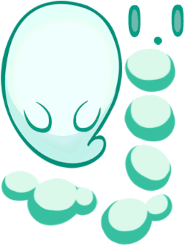
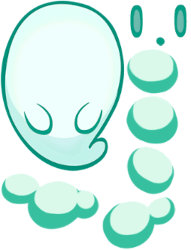
fix ghost sprite

diff --git a/src/ResInfo.js b/src/ResInfo.js
@@ -694,10 +694,10 @@ const RES_INFO_2560 = [
     // ghost
     {
         id: ResourceId.IMG_OBJ_GHOST,
-        preCutWidth: 188,
-        preCutHeight: 246,
+        preCutWidth: 191,
+        preCutHeight: 250,
         rects: [
-            0, 0, 163, 225, 167, 63, 72, 63, 167, 127, 71, 66, 167, 194, 67, 66, 134, 261, 101, 72,
+            0, 0, 166, 229, 167, 63, 72, 63, 167, 127, 71, 66, 167, 194, 67, 66, 134, 261, 101, 72,
             0, 230, 133, 77, 167, 0, 87, 62,
         ],
         offsets: [2, 1, 91, 83, 92, 82, 94, 82, 77, 82, 57, 79, 41, 71],
